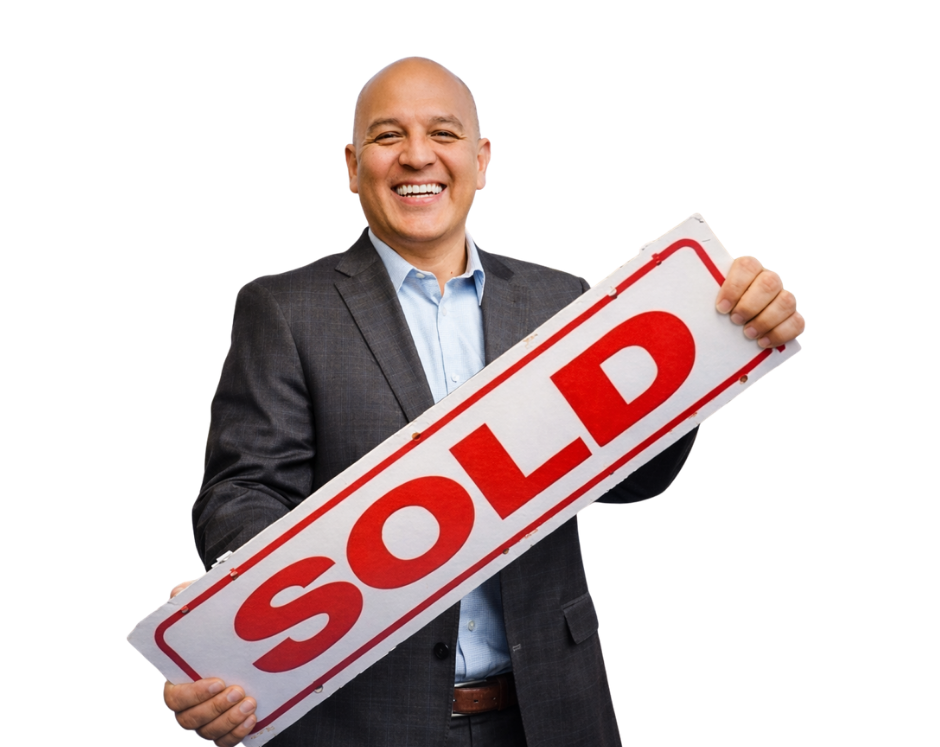
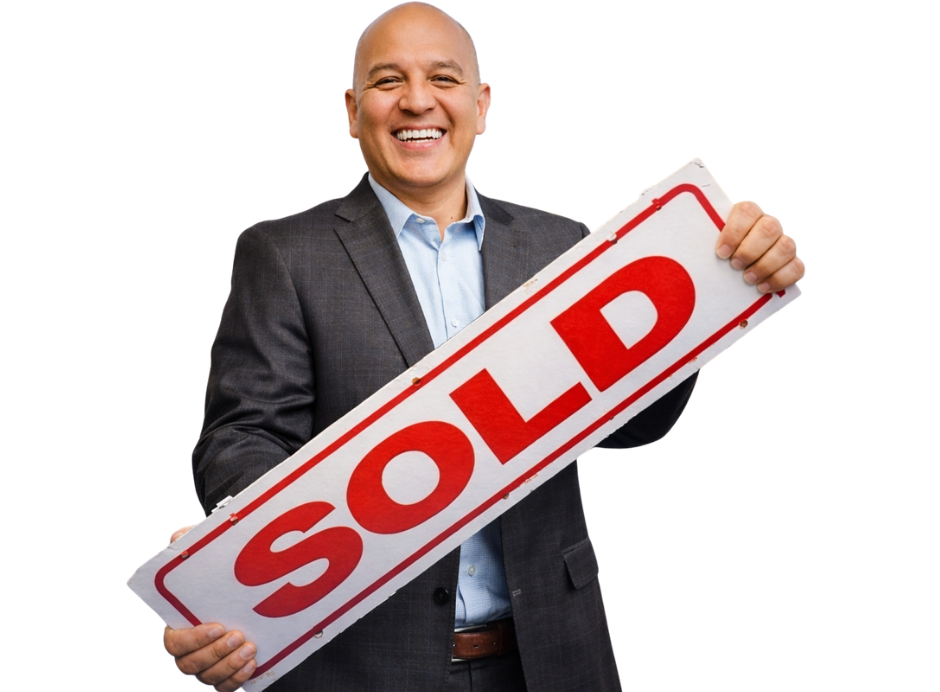
21-04

Changed region(s): [[0.1234, 0.0, 0.8638, 1.0], [0.5862, 0.7283, 0.6479, 0.8497], [0.617, 0.8497, 0.6479, 0.8801]]

diff --git a/src/app/(realtor-latino)/realtor-latino-utah/ClientComponents.tsx b/src/app/(realtor-latino)/realtor-latino-utah/ClientComponents.tsx
@@ -113,7 +113,7 @@ export function IvanUtahClient({ whatsAppNumber }: ClientComponentsProps) {
 
   const allTestimonials: Testimonial[] = [
     {
-      name: "Fiorella Harley",
+      name: "Fiorella",
       image: "/images/ivan-utah/hugoh.jpg",
       shortText: "Vendimos nuestra casa con Blue Key Realty. Iván fue excelente; siempre estuvo dispuesto a responder nuestras preguntas y nos brindó el mejor asesoramiento durante todo el proceso. Recomiendo ampliamente sus servicios...",
       fullText: "Vendimos nuestra casa con Blue Key Realty. Iván fue excelente; siempre estuvo dispuesto a responder nuestras preguntas y nos brindó el mejor asesoramiento durante todo el proceso. Recomiendo ampliamente sus servicios."
@@ -154,9 +154,9 @@ export function IvanUtahClient({ whatsAppNumber }: ClientComponentsProps) {
               style={{
                 animation: `fadeInDown 0.6s ease-out`,
               }}
-              className="text-center mb-2 sm:mb-8"
+              className="text-center mb-1 sm:mb-4"
             >
-              <h2 className="text-lg sm:text-3xl md:text-4xl lg:text-5xl font-bold leading-tight max-w-4xl mx-auto" style={{ fontFamily: 'Impact, sans-serif' }}>
+              <h2 className="text-base sm:text-2xl md:text-3xl lg:text-5xl font-bold leading-tight max-w-4xl mx-auto" style={{ fontFamily: 'Impact, sans-serif' }}>
                 <div style={{
                   textShadow: '2px 2px 0 rgba(0, 0, 0, 1), 4px 4px 8px rgba(0, 0, 0, 0.9)',
                   WebkitTextStroke: '0.2px rgba(0, 0, 0, 0.8)',
@@ -191,11 +191,11 @@ export function IvanUtahClient({ whatsAppNumber }: ClientComponentsProps) {
             </div>
 
             {/* Main Content Grid - Optimized for Mobile */}
-            <div className="grid grid-cols-1 lg:grid-cols-2 gap-2 sm:gap-6 lg:gap-8 items-start lg:items-end">
+            <div className="grid grid-cols-1 lg:grid-cols-2 gap-1 sm:gap-3 lg:gap-4 items-start lg:items-end">
               {/* Left Side - Ivan Image + Badges */}
-              <div className="w-full flex flex-col gap-1">
+              <div className="w-full flex flex-col gap-0.5">
                 {/* Ivan Image - Smaller on Mobile */}
-                <div className="relative w-full max-w-[240px] sm:max-w-none mx-auto">
+                <div className="relative w-full max-w-[250px] sm:max-w-[280px] md:max-w-[260px] lg:max-w-[360px] mx-auto">
                   <img 
                     src="/images/ivan-utah/ivan2.png" 
                     alt="Ivan Utah Realtor" 
@@ -204,12 +204,14 @@ export function IvanUtahClient({ whatsAppNumber }: ClientComponentsProps) {
                       e.currentTarget.style.display = 'none'
                     }}
                   />
-                  <p className="text-white text-[9px] sm:text-xs leading-tight mb-1 line-clamp-2 text-center w-full">Tu realtor latino de confianza en utah</p>
+                  <p className="text-white text-xs sm:text-sm leading-tight mb-1 text-center w-full">
+                    <span className="underline">Tu Realtor</span> Latino
+                  </p>
                 </div>
                 
                 {/* Stat Badges - Single Row on Mobile */}
-                <div className="grid grid-cols-4 gap-1 sm:gap-3 lg:gap-4 mt-1">
-                  <div className="bg-primary-navy border-2 border-accent-gold rounded-lg p-2 sm:p-4 text-center flex flex-col items-center justify-center gap-1">
+                <div className="grid grid-cols-4 gap-1 sm:gap-2 lg:gap-3 mt-1">
+                  <div className="bg-primary-navy border-2 border-accent-gold rounded-lg p-1 sm:p-2 lg:p-4 text-center flex flex-col items-center justify-center gap-1">
                     <svg className="w-8 h-8 sm:w-14 sm:h-14" viewBox="0 0 64 64" fill="none" xmlns="http://www.w3.org/2000/svg">
                       <path d="M24 8L20 20L24 28" stroke="#CAA037" strokeWidth="2.5" fill="none" strokeLinecap="round"/>
                       <path d="M40 8L44 20L40 28" stroke="#CAA037" strokeWidth="2.5" fill="none" strokeLinecap="round"/>
@@ -217,19 +219,19 @@ export function IvanUtahClient({ whatsAppNumber }: ClientComponentsProps) {
                       <circle cx="32" cy="38" r="13" fill="none" stroke="#001F3F" strokeWidth="1.5"/>
                       <path d="M32 28L36 36H44L38 40L40 48L32 44L24 48L26 40L20 36H28L32 28Z" fill="#001F3F"/>
                     </svg>
-                    <div className="text-sm sm:text-2xl font-bold text-accent-gold">22+</div>
-                    <div className="text-[7px] sm:text-sm font-bold text-white uppercase">Years Experience</div>
+                    <div className="text-xs sm:text-xl lg:text-2xl font-bold text-accent-gold">22+</div>
+                    <div className="text-[6px] sm:text-xs lg:text-sm font-bold text-white uppercase">Years Experience</div>
                   </div>
 
-                  <div className="bg-primary-navy border-2 border-accent-gold rounded-lg p-2 sm:p-4 text-center flex flex-col items-center justify-center gap-1">
+                  <div className="bg-primary-navy border-2 border-accent-gold rounded-lg p-1 sm:p-2 lg:p-4 text-center flex flex-col items-center justify-center gap-1">
                     <svg className="w-8 h-8 sm:w-14 sm:h-14" viewBox="0 0 64 64" fill="none" xmlns="http://www.w3.org/2000/svg">
                       <path d="M32 12L42 28H52L44 36L48 52L32 44L16 52L20 36L12 28H22L32 12Z" fill="#CAA037" stroke="#CAA037" strokeWidth="1.5"/>
                     </svg>
-                    <div className="text-sm sm:text-2xl font-bold text-accent-gold">+1.200</div>
-                    <div className="text-[7px] sm:text-sm font-bold text-white uppercase">Families Served</div>
+                    <div className="text-xs sm:text-xl lg:text-2xl font-bold text-accent-gold">+1.200</div>
+                    <div className="text-[6px] sm:text-xs lg:text-sm font-bold text-white uppercase">Families Served</div>
                   </div>
 
-                  <div className="bg-primary-navy border-2 border-accent-gold rounded-lg p-2 sm:p-4 text-center flex flex-col items-center justify-center gap-1">
+                  <div className="bg-primary-navy border-2 border-accent-gold rounded-lg p-1 sm:p-2 lg:p-4 text-center flex flex-col items-center justify-center gap-1">
                     <img 
                       src="/images/ivan-utah/QR - copia.png" 
                       alt="QR Badge" 
@@ -238,11 +240,11 @@ export function IvanUtahClient({ whatsAppNumber }: ClientComponentsProps) {
                         e.currentTarget.style.display = 'none'
                       }}
                     />
-                    <div className="text-sm sm:text-2xl font-bold text-accent-gold">Top 500</div>
-                    <div className="text-[6px] sm:text-sm font-bold text-white uppercase">Salt Lake County</div>
+                    <div className="text-xs sm:text-xl lg:text-2xl font-bold text-accent-gold">Top 500</div>
+                    <div className="text-[6px] sm:text-xs lg:text-sm font-bold text-white uppercase">Salt Lake County</div>
                   </div>
 
-                  <div className="bg-primary-navy border-2 border-accent-gold rounded-lg p-2 sm:p-4 text-center flex flex-col items-center justify-center gap-1">
+                  <div className="bg-primary-navy border-2 border-accent-gold rounded-lg p-1 sm:p-2 lg:p-4 text-center flex flex-col items-center justify-center gap-1">
                     <svg className="w-8 h-8 sm:w-14 sm:h-14" viewBox="0 0 64 64" fill="none" xmlns="http://www.w3.org/2000/svg">
                       <circle cx="18" cy="32" r="12" stroke="#CAA037" strokeWidth="2.5"/>
                       <path d="M10 44L6 52" stroke="#CAA037" strokeWidth="2.5" strokeLinecap="round"/>
@@ -251,14 +253,14 @@ export function IvanUtahClient({ whatsAppNumber }: ClientComponentsProps) {
                       <path d="M54 36L58 44" stroke="#CAA037" strokeWidth="2.5" strokeLinecap="round"/>
                       <text x="46" y="29" textAnchor="middle" fill="#CAA037" fontSize="10" fontWeight="bold" fontFamily="Arial">ES</text>
                     </svg>
-                    <div className="text-sm sm:text-2xl font-bold text-accent-gold">Bilingual</div>
-                    <div className="text-[7px] sm:text-sm font-bold text-white uppercase">Español and Ingles</div>
+                    <div className="text-xs sm:text-xl lg:text-2xl font-bold text-accent-gold">Bilingual</div>
+                    <div className="text-[6px] sm:text-xs lg:text-sm font-bold text-white uppercase">Español and Ingles</div>
                   </div>
                 </div>
               </div>
 
               {/* Right Side - Testimonial + Form */}
-              <div className="w-full space-y-2 sm:space-y-4">
+              <div className="w-full space-y-1 sm:space-y-2">
                 {/* Testimonials Section */}
                 <div className="w-full">
                   <div className="text-center mb-2">
@@ -284,10 +286,11 @@ export function IvanUtahClient({ whatsAppNumber }: ClientComponentsProps) {
                           onClick={() => setSelectedTestimonial(testimonial)}
                           className="bg-primary-navy border-2 border-accent-gold p-2 sm:p-3 rounded-lg cursor-pointer hover:shadow-lg transition-all"
                         >
-                          <div className="flex gap-0.5 mb-1">
-                            {[...Array(5)].map((_, i) => (
-                              <span key={i} className="text-accent-gold text-xs">★</span>
-                            ))}
+                          <div className="flex items-center gap-1 mb-1">
+                            <span className="text-accent-gold font-bold text-xs">5</span>
+                            <span className="text-accent-gold text-xs">★</span>
+                            <span className="text-white text-[7px] sm:text-xs">Google Review</span>
+                            <span className="text-accent-gold font-bold text-xs">240+</span>
                           </div>
 
                           <p className="text-white text-[7px] sm:text-xs leading-tight mb-1 line-clamp-2">&ldquo;{testimonial.shortText}&rdquo;</p>
@@ -311,10 +314,11 @@ export function IvanUtahClient({ whatsAppNumber }: ClientComponentsProps) {
                       onClick={() => setSelectedTestimonial(testimonials[0])}
                       className="bg-primary-navy border-2 border-accent-gold p-2 sm:p-3 rounded-lg cursor-pointer hover:shadow-lg transition-all"
                     >
-                      <div className="flex gap-0.5 mb-1">
-                        {[...Array(5)].map((_, i) => (
-                          <span key={i} className="text-accent-gold text-xs">★</span>
-                        ))}
+                      <div className="flex items-center gap-1 mb-1">
+                        <span className="text-accent-gold font-bold text-xs">5</span>
+                        <span className="text-accent-gold text-xs">★</span>
+                        <span className="text-white text-[7px] sm:text-xs">Google Review</span>
+                        <span className="text-accent-gold font-bold text-xs">240+</span>
                       </div>
 
                       <p className="text-white text-[7px] sm:text-xs leading-tight mb-1 line-clamp-2">&ldquo;{testimonials[0].shortText}&rdquo;</p>
@@ -340,9 +344,9 @@ export function IvanUtahClient({ whatsAppNumber }: ClientComponentsProps) {
                     animation: `slideInRight 0.6s ease-out 0.3s both`,
                     willChange: 'transform'
                   }}
-                  className="bg-black/40 backdrop-blur-md p-2 sm:p-4 lg:p-6 rounded-sm shadow-xl border-t-4 sm:border-t-8 border-accent-gold h-fit"
+                  className="bg-black/40 backdrop-blur-md p-2 sm:p-3 lg:p-5 rounded-sm shadow-xl border-t-4 sm:border-t-6 lg:border-t-8 border-accent-gold h-fit"
                 >
-                  <h3 className="text-xs sm:text-lg lg:text-xl font-bold text-white mb-2 text-center">OBTENER MI ANÁLISIS DE MERCADO GRATUITO</h3>
+                  <h3 className="text-[10px] sm:text-sm lg:text-lg font-bold text-white mb-1 text-center">OBTENER MI ANÁLISIS DE MERCADO GRATUITO</h3>
                                    
                   <form onSubmit={handleFormSubmit} className="space-y-1 sm:space-y-3">
                     {/* Error Messages */}
